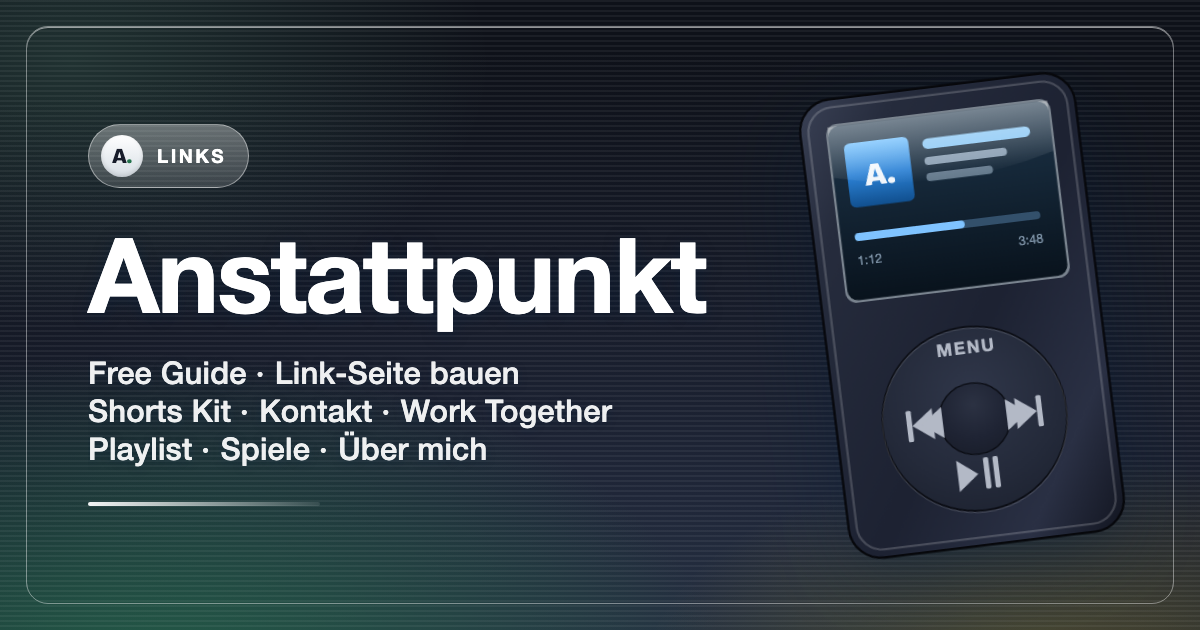
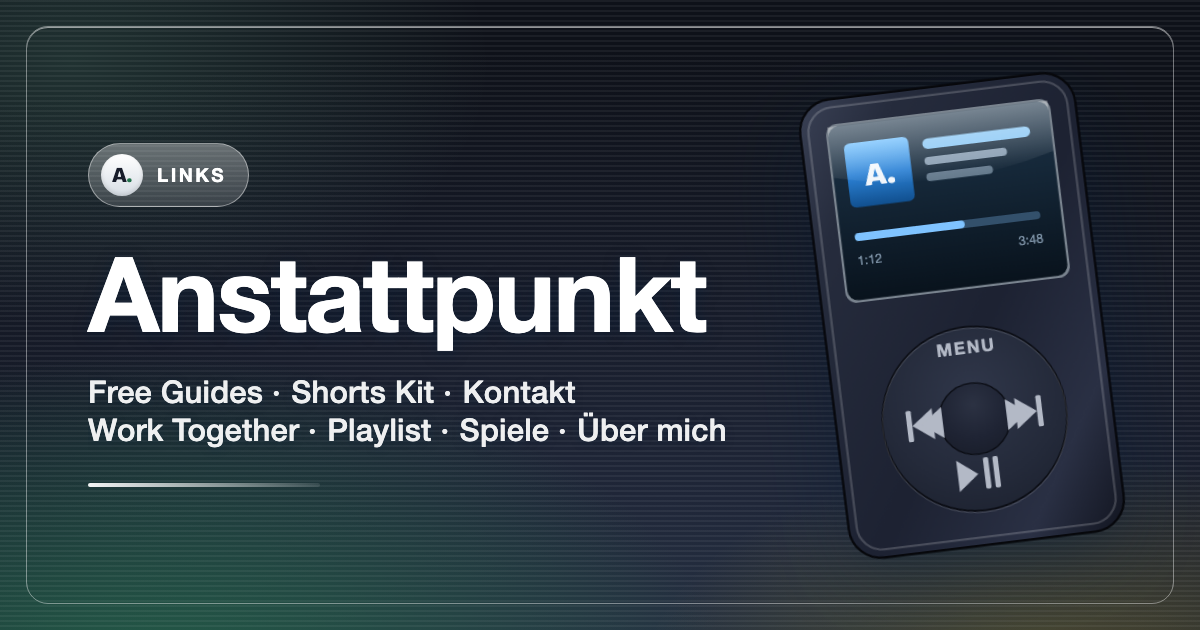
Untermenü "Free Guides" mit beiden Guides
- iPod-Menü: "Free Guides" (Typ menu, icon book) an der Stelle des Free Guide, darin
  "Link-Seite bauen" / "Build this page" und "KI-Videos machen" / "Making AI videos"
  (der bisherige Free Guide, Text und Schaltfläche unverändert)
- Linkliste ohne JavaScript: Einträge eines Untermenüs bekommen eigene Abschnitte, damit
  beide Guide-Links drinbleiben
- og-image.png neu gerendert (Menüzeile), README angepasst

Changed region(s): [[0.0617, 0.3619, 0.6167, 0.8143], [0.0617, 0.181, 0.2158, 0.3317]]

diff --git a/vite.config.js b/vite.config.js
@@ -59,9 +59,10 @@ function noscriptHtml(config, origin = null) {
     return `<li${lang}><a href="${esc(a.href)}"${attrs}>${esc(label)}</a></li>`;
   };
   const items = (a) => (Array.isArray(a) ? a : []).filter((x) => x && typeof x === 'object');
+  // a submenu's entries (the guides under "Free Guides") get their own sections; the games have no links
+  const flat = (list) => items(list).flatMap((m) => (m.type === 'menu' ? flat(m.items) : [m]));
   const sections = [];
-  for (const item of Array.isArray(config.menu) ? config.menu : []) {
-    if (!item || typeof item !== 'object') continue;
+  for (const item of flat(config.menu)) {
     let rows = [];
     if (item.type === 'list' || item.type === 'page') {
       rows = items(item.type === 'list' ? item.items : item.actions).map((i) => {

diff --git a/README.md b/README.md
@@ -138,9 +138,11 @@ herunterladen.
 
 | Feld    | Typ   | Bedeutung                                                                 |
 | ------- | ----- | ------------------------------------------------------------------------- |
-| `items` | Array | Einträge wie im Hauptmenü (gleiche Felder und Typen), z. B. die beiden Spiele |
+| `items` | Array | Einträge wie im Hauptmenü (gleiche Felder und Typen), z. B. die beiden Spiele oder die beiden Guides |
 
-So stehen Snake und Blocks unter „Spiele“ / „Games“ (`icon: "games"`, ein Gamepad).
+So stehen Snake und Blocks unter „Spiele“ / „Games“ (`icon: "games"`, ein Gamepad) und die beiden
+Guides unter „Free Guides“ (`icon: "book"`). In der Linkliste ohne JavaScript bekommen die Einträge
+eines Untermenüs eigene Abschnitte, wie Einträge im Hauptmenü.
 
 #### `type: "game"`: Snake oder Blocks
 
@@ -337,8 +339,8 @@ Gestaltung und Farben liegen zentral in [`tools/lib/brand.mjs`](tools/lib/brand.
 ## Gratis-Guide unter `/guide/`
 
 `public/guide/index.html` ist der englische Gratis-Guide „The 6 parts of every AI video pipeline“,
-erreichbar unter `anstattpunkt.com/guide/` und im iPod-Menü unter „Free Guide“. Die Seite wird
-nicht von Hand bearbeitet: Sie entsteht aus `free_guide.html` im Motion-Studio (ein
+erreichbar unter `anstattpunkt.com/guide/` und im iPod-Menü unter „Free Guides“ → „KI-Videos
+machen“. Die Seite wird nicht von Hand bearbeitet: Sie entsteht aus `free_guide.html` im Motion-Studio (ein
 Artifact-Body ohne `<head>`).
 
 ```bash
@@ -357,8 +359,8 @@ Entwicklungsserver liefert `/guide/` wie GitHub Pages aus (jeder Ordner in `publ
 ## Link-Seiten-Anleitung unter `/linkseite/`
 
 `public/linkseite/index.html` ist die deutsche Anleitung „So baust du deine Link-Seite mit Claude
-Code“ unter `anstattpunkt.com/linkseite/`, im iPod-Menü unter „Link-Seite bauen“ („Build this
-page“). Sie entsteht wie der Guide aus einer Quelle im Motion-Studio
+Code“ unter `anstattpunkt.com/linkseite/`, im iPod-Menü unter „Free Guides“ → „Link-Seite bauen“
+(„Build this page“). Sie entsteht wie der Guide aus einer Quelle im Motion-Studio
 (`sales/creator/linkseite_guide.html`) und wird nicht von Hand bearbeitet.
 
 ```bash
